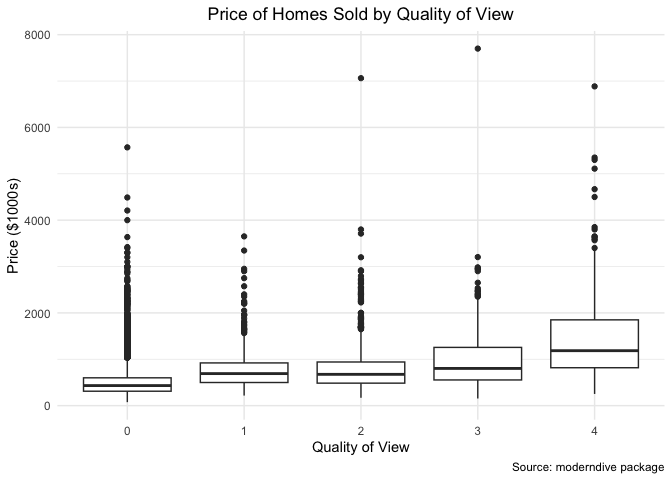
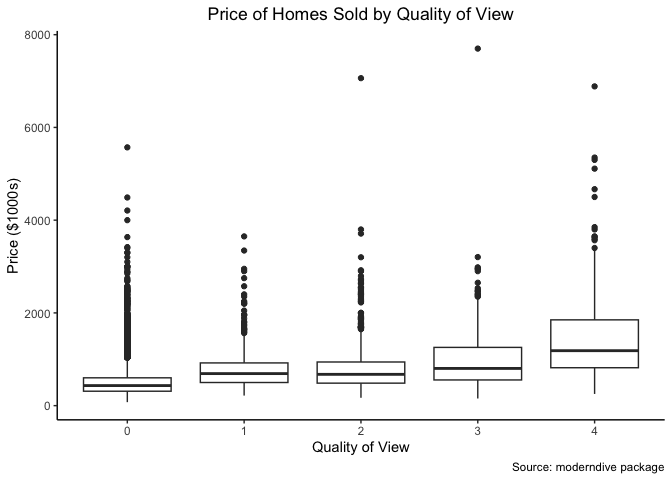
fix: problem set 2 revisions to reflect in-class progress

diff --git a/assignments/assignment2/assignment2.md b/assignments/assignment2/assignment2.md
@@ -3,8 +3,24 @@ SMPA 2152 (Prof. Bell)
 
 For this homework, please use the `assignment2_template.R` script.
 Please submit your completed `.R` script via Blackboard. In addition,
-please submit a Word document or PDF containing the visualizations for
-each question *as well as your written response to the prompt*.
+please submit a Word document or PDF containing the visualizations and
+your responses to the questions.
+
+**To save a graph and download it to your computer in Posit Cloud:**
+
+1.  In the “Plots” pane, select “Export” and then “Save as Image.”
+
+2.  Give the file a name and use the drag button in the corner of the
+    graph to resize the image to proper dimensions. Click “Save.”
+
+3.  In the “Files” pane, select the check mark next to your `.png` file.
+    Click “More”, and then “Export…” Click “Download” to download the
+    file to your computer.
+
+    If you select the check mark next to multiple files, you will export
+    a .zip folder. Before submitting any work in this class, you must
+    unzip the folder to obtain the unzipped files. Do not submit a zip
+    folder for an assignment.
 
 You may complete the assignments on your own or in collaboration with
 other students. This means that you may work together to write code
@@ -27,9 +43,20 @@ library(moderndive)
 data(house_prices)
 ```
 
+For this homework, please generate an appropriate visualization to
+answer the question. Your visualizations should be nicely-formatted,
+with a theme, axis labels, a title, and a caption with the source of the
+data. In your Word document or PDF containing the visualizations, please
+also include your written response to the question. Only a brief
+explanation (1-2 sentences) is required.
+
 1.  Do homes with better views command a higher sales price? Please
     report prices in \$1000s, so divide price by 1000. (For `view`, 0 =
     Poor, 1 = Fair, 2 = Average, 3 = Good, and 4 = Very Good.)
+
+    *Hint: To convert a numeric variable to a categorical variable, use
+    the `factor(x)` function in your `aes()` mapping, where `x` is the
+    name of the variable you would like to convert.*
 
 ``` r
 ggplot(data = house_prices) +
@@ -38,57 +65,57 @@ ggplot(data = house_prices) +
              y = "Price ($1000s)",
              title = "Price of Homes Sold by Quality of View",
              caption = "Source: moderndive package") +
-    theme_minimal() +
+    theme_classic() +
     theme(plot.title = element_text(hjust = .5))
 ```
 
 ![](assignment2_files/figure-commonmark/unnamed-chunk-2-1.png)
 
-``` outputcode
-Homes with better views command higher prices on average, but there are also many homes without good views that sell for higher prices than the homes with the best views. View quality is not the only factor that determines a home price.
-```
+> Homes with better views command higher prices on average, but there
+> are also many homes without good views that sell for higher prices
+> than the homes with the best views. View quality is not the only
+> factor that determines a home price.
 
-3.  Design style has changed over the past century. Use a scatterplot
-    and best fit lines to show how the number of bathrooms compares to
-    the number of bedrooms. Do homes built on or after 1990 tend to have
-    more bathrooms per bedroom than homes built before 1990? (Hint:
-    Recall the result of a logical operator applied to a vector of
-    values. Create a new column that is made up of `TRUE` and `FALSE`
-    values.)
+2.  When homes get larger, are constructors more likely to add
+    additional bedrooms or additional bathrooms? To answer this
+    question, calculate a new variable that is the ratio of bathrooms to
+    bedrooms (i.e., `bathrooms/bedrooms`). Do larger homes (as measured
+    by `sqft_living`) have more bathrooms per bedrooms?
+
+    *Hint: You will need to geom\_\*() layers to answer this question.*
 
 ``` r
-house_prices$after_1990 <- house_prices$yr_built >= 1990
+house_prices$bath_per_bed <- house_prices$bathrooms/house_prices$bedrooms
 
-ggplot(data = house_prices, aes(x = bedrooms, y = bathrooms, color = after_1990)) +
-    geom_point() +
-    geom_smooth(method = "lm", se = FALSE) +
-    labs(x = "Bedrooms",
-             y = "Bathrooms",
-             color = "Built on or after 1990?",
-             title = "Bedrooms and Bathrooms Pre- and Post-1990 Construction",
+ggplot(house_prices) +
+    geom_point(aes(x = sqft_living, y = bath_per_bed)) +
+    geom_smooth(aes(x = sqft_living, y = bath_per_bed), method = "lm", se = FALSE) +
+    labs(x = "Square Feet",
+             y = "Bathrooms to Bedrooms Ratio",
+             title = "Do Larger Homes Have More Bathrooms Per Bedrooms?",
              caption = "Source: moderndive package") +
-  theme_minimal() +
-    theme(plot.title = element_text(hjust = .5),
-          legend.position = "bottom")
+  theme_classic() +
+    theme(plot.title = element_text(hjust = .5))
 ```
 
 ![](assignment2_files/figure-commonmark/unnamed-chunk-4-1.png)
 
-``` outputcode
-Homes built on or after 1990 tend to have more bathrooms per bedroom. The relationship between bedrooms and bathrooms is the same in both time periods, but the average number of bathrooms is higher at all numbers of bedrooms in the post-1990 period.
-```
+> Larger homes tend to have more bathrooms per bedrooms. This suggests
+> that constructors may be more likely to use additional square footage
+> for bathrooms than bedrooms.
 
-3.  Complete the following code to generate a line graph showing how the
+3.  Complete the following code to generate a graph showing how the
     number of monthly home sales changes over the course of the year (we
     will learn what this code does in a couple of weeks). Modify the
     axes to better fit the data. What is the most popular time of year
     for home sales? Why do you think this might be?
 
+    *Hint: This is a univariate graph.*
+
 ``` r
-library(dplyr) # This package is already installed with your other packages
+library(dplyr)
 house_prices |>
   mutate(month = format(date, "%m")) |>
-  count(month) |>
   ggplot() +
     ...
 ```
@@ -97,18 +124,18 @@ house_prices |>
 library(dplyr)
 house_prices |>
   mutate(month = as.numeric(format(date, "%m"))) |>
-  count(month) |>
   ggplot() +
-    geom_line(aes(x = month, y = n)) +
-    scale_x_continuous(breaks = 1:12) +
-    scale_y_continuous(limits = c(0,NA)) +
+    geom_bar(aes(x = month)) +
+    scale_x_continuous(breaks = 1:12, labels = month.abb) +
     labs(x = "Month",
          y = "Number of Homes Sold",
          title = "Number of Homes Sold Each Month",
          caption = "Source: moderndive package") +
     theme_classic() +
-    theme(plot.title = element_text(hjust = .5),
-          legend.position = "bottom")
+    theme(plot.title = element_text(hjust = .5))
 ```
 
 ![](assignment2_files/figure-commonmark/unnamed-chunk-7-1.png)
+
+> The most popular month for home sales is May, probably because summer
+> moves are least disruptive to the school year for children.
